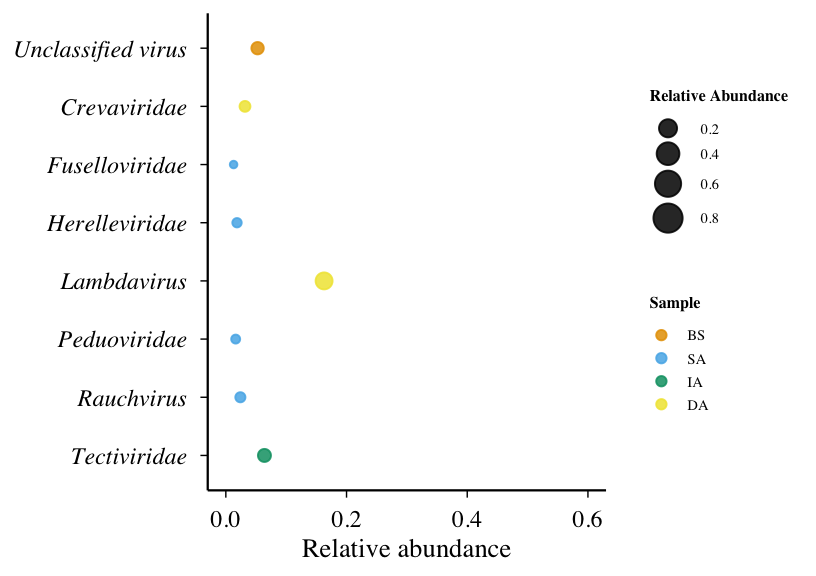
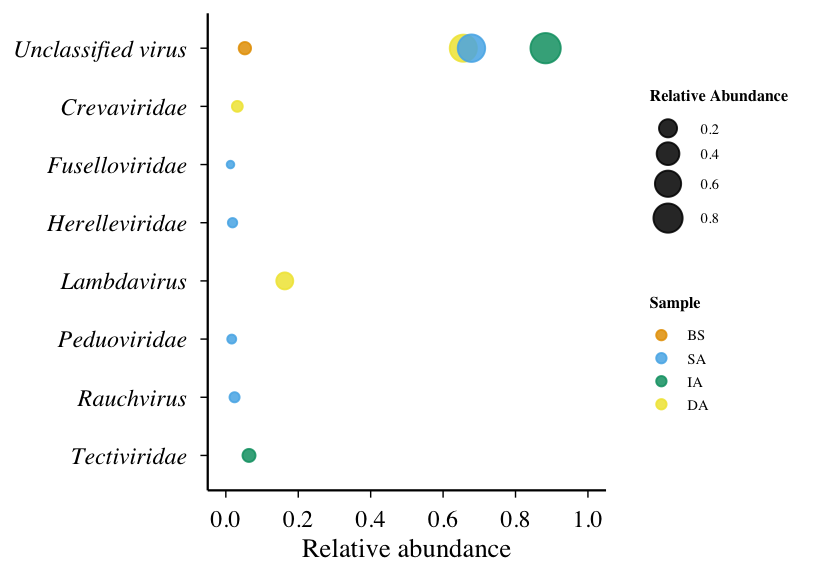
Fix Figure S3a axis range and update rendered report

diff --git a/analyses/07-figs3-abundant-patterns.md b/analyses/07-figs3-abundant-patterns.md
@@ -13,7 +13,7 @@ Cunli Pan, Jinlong Ru
 - [<span class="toc-section-number">0.4</span> Export Figure S3 panels
   as TIFF](#export-figure-s3-panels-as-tiff)
 
-**Updated: 2026-09-07 17:29:01 CET.**
+**Updated: 2026-09-15 19:45:08 CET.**
 
 The purpose of this document is to characterize the “abundant
 biosphere,” analyzing the distribution patterns, persistence, and host
@@ -216,8 +216,8 @@ p_bubble <- ggplot(df_sum, aes(x = total_abund, y = fct_rev(factor(family)), col
     breaks = pretty(df_sum$total_abund, n = 4)
   ) +
   scale_x_continuous(
-    breaks = seq(0, 0.6, by = 0.2),
-    limits = c(0, 0.6),
+    breaks = seq(0, 1.0, by = 0.2),
+    limits = c(0, 1.0),
     labels = number_format(accuracy = 0.1)
   ) +
   scale_color_manual(
@@ -244,9 +244,6 @@ print(p_bubble)
 
 </details>
 
-    Warning: Removed 3 rows containing missing values or values outside the scale range
-    (`geom_point()`).
-
 ![](07-figs3-abundant-patterns_files/figure-commonmark/FigS3a-bubble-1.png)
 
 <details class="code-fold">
@@ -255,17 +252,6 @@ print(p_bubble)
 ``` r
 # Save
 ggsave(path_target("FigS3a_bubble.png"), p_bubble, width = 8.5, height = 6, dpi = 300)
-```
-
-</details>
-
-    Warning: Removed 3 rows containing missing values or values outside the scale range
-    (`geom_point()`).
-
-<details class="code-fold">
-<summary>Code</summary>
-
-``` r
 write_csv(df_sum, path_target("FigS3a_bubble_data.csv"))
 write_csv(abundant_vOTUs, path_target("FigS3a_abundant_full.csv"))
 
